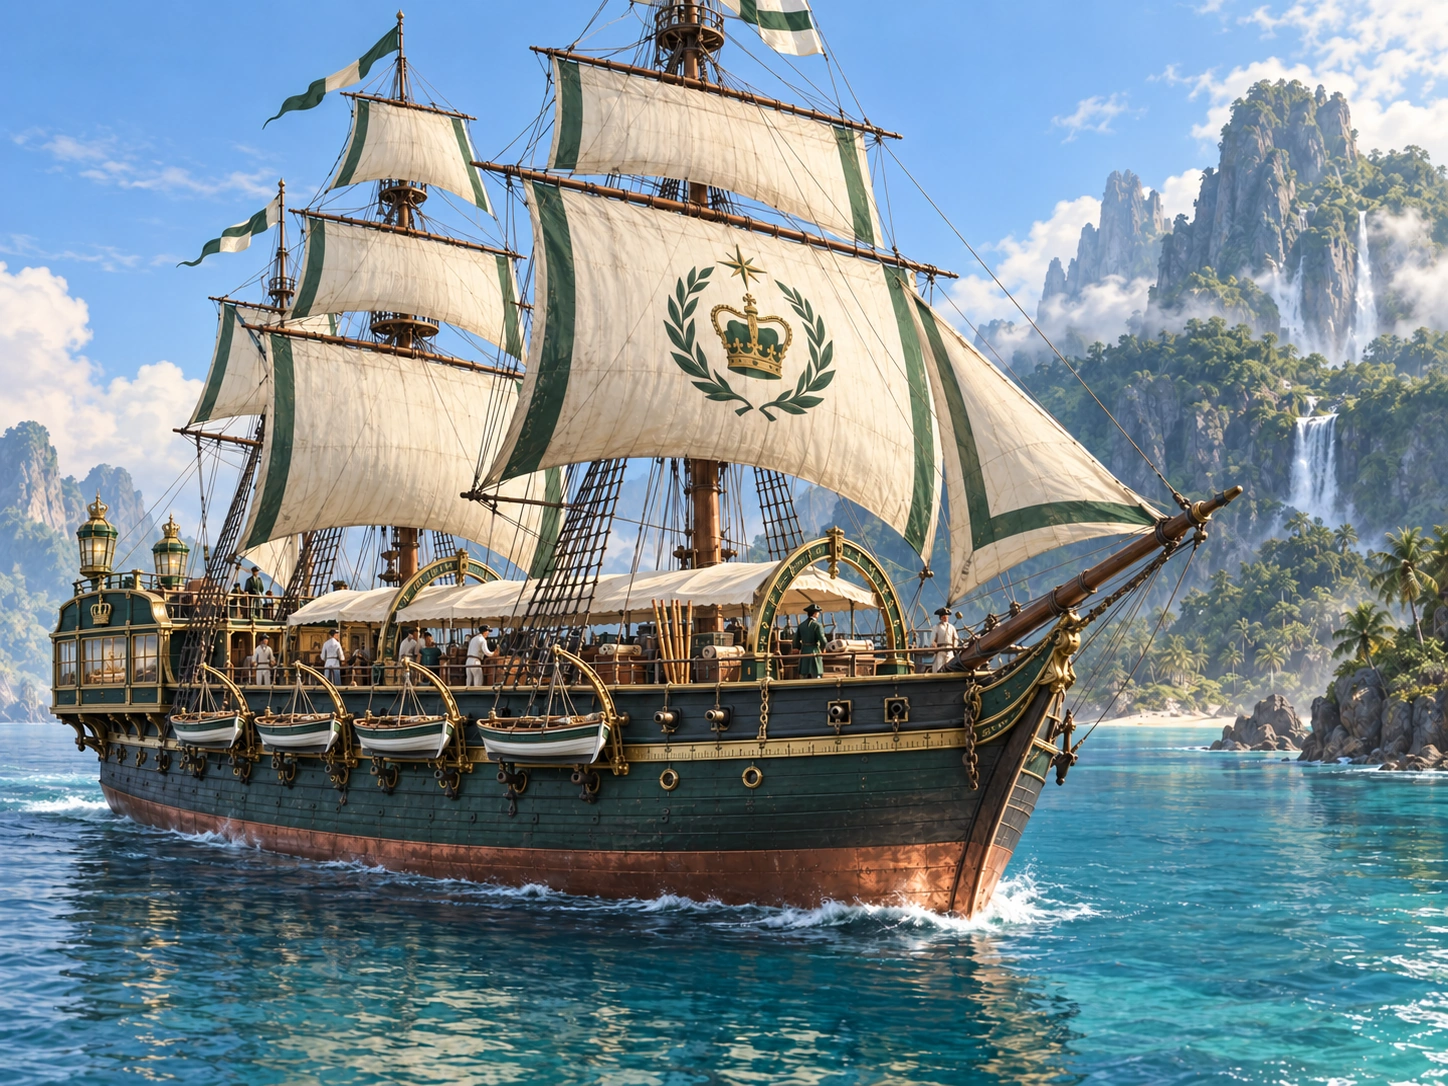
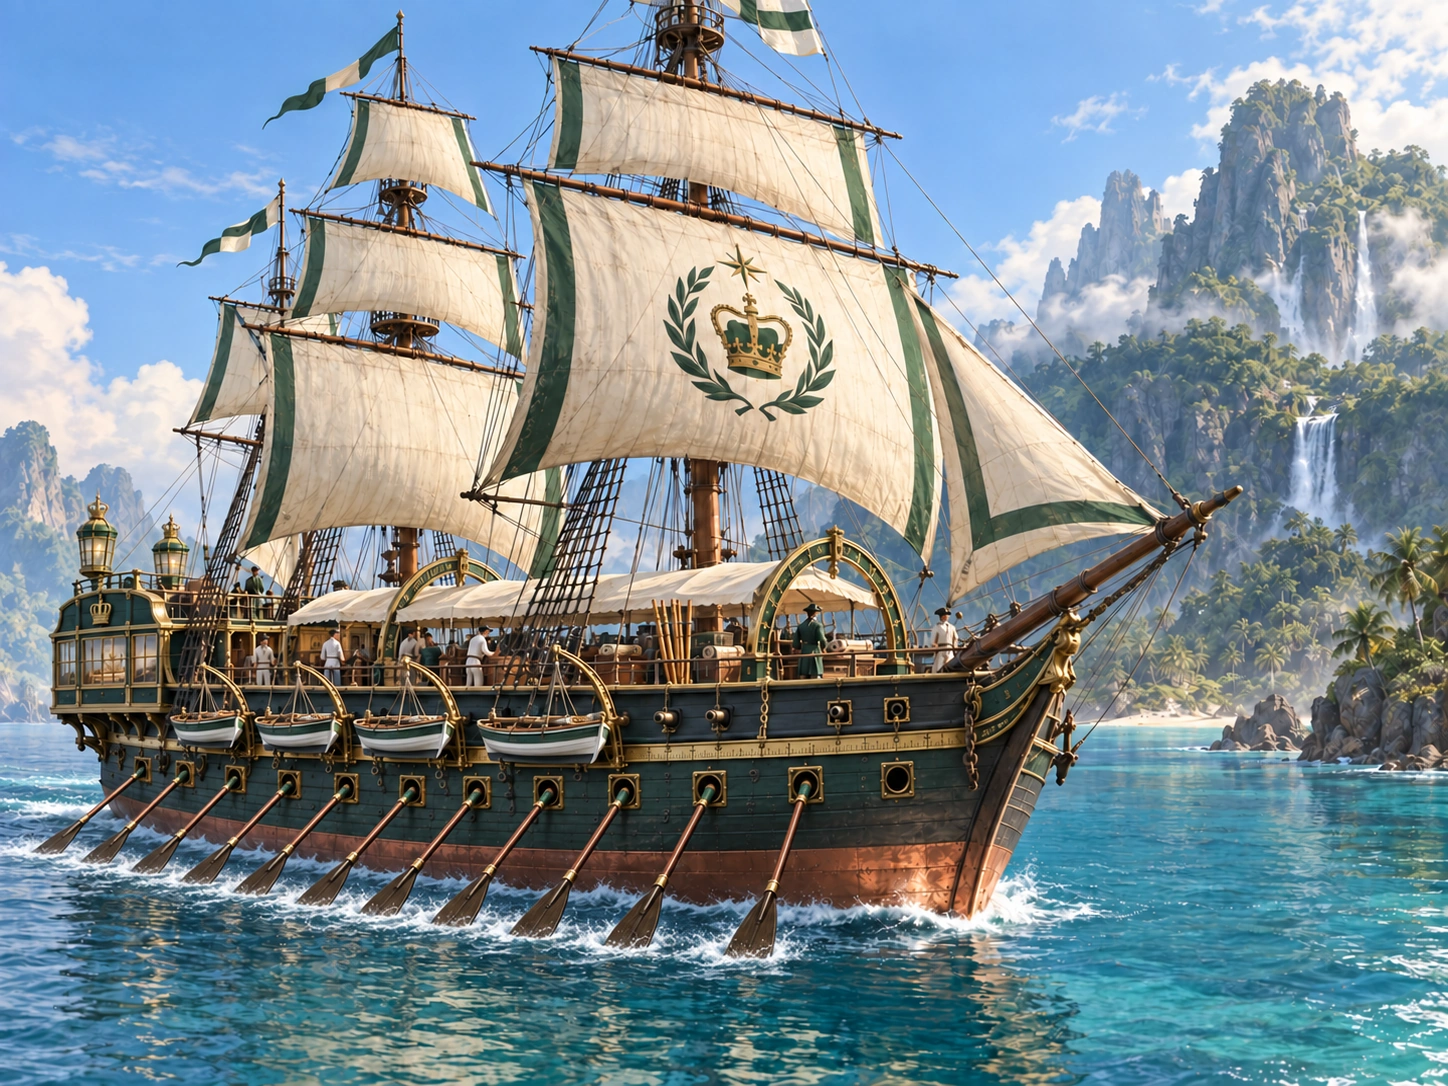
Wayfinder v3: the same ship with her sweeps out
A revision of this morning's commission, and everything that matched Part 4
before still does - paired brass survey lanterns, the chart-cabinet stern
gallery, the long covered waist, paired boat cranes, a small battery, ivory sails
with green edge bands and one Crown emblem, calm water off an uncharted island.
What is new is a full bank of sweeps run out along both sides.

The master neither asks for oars nor forbids them, and they earn their place:
sweeps are what a survey ship wants for working into a windless bay to take
soundings, which is the job her entry describes. She now looks like a vessel
that can reach the places the chart does not have yet, which is the point of her.

Recorded in the register and the art doc for the avoidance of doubt, because it
is the one reading that would be wrong: oars are not galley slavery. CANON v4.0
section 4 is explicit that the Crown keeps none, and section 12 rejects the
enslaved-oarsmen history outright. These sweeps are pulled by her own crew.

Both earlier masters are kept - wayfinder.v1 and v2 in art-masters/_retired -
so this is reversible without asking for anything again. Register clean, 174
assets.

737 tests and 1 skipped, tsc and the build clean.

Claude-Session: https://claude.ai/code/session_01J4RqjefmrWhjDQZzLK6vCx

diff --git a/ASSETS.md b/ASSETS.md
@@ -7,7 +7,7 @@ full-resolution original is kept. The shipped file is small and cropped;
 the master in `art-masters/` is the delivery as it came, so any of these
 can be recropped or resized later without asking for the art again.
 
-**174 of 187 painted.** 7202KB shipped, 47.3MB of masters kept back.
+**174 of 187 painted.** 7207KB shipped, 47.3MB of masters kept back.
 
 ## portraits — 480×436
 
@@ -114,7 +114,7 @@ three-quarter view, whole vessel, masts and waterline both in frame. 34 of 42.
 | Urskin Whaler | `urskin-whaler` | 3 (+2 retired) | 78KB | 1448×1086, 625KB | whole frame | 2026-09-16 | Sean, 19 September — production painting |
 | Vanguard | `vanguard` | 2 (+1 retired) | 78KB | 1448×1086, 604KB | whole frame | 2026-09-16 | Sean, 16 September — sliced from the fleet contact sheet |
 | Vanguard II | `vanguard-ii` | 2 (+1 retired) | 80KB | 1448×1086, 642KB | whole frame | 2026-09-16 | Sean, 16 September — sliced from the fleet contact sheet |
-| Wayfinder | `wayfinder` | 2 (+1 retired) | 81KB | 1448×1086, 602KB | whole frame | 2026-09-19 | Sean, 19 September — production painting |
+| Wayfinder | `wayfinder` | 3 (+2 retired) | 86KB | 1448×1086, 597KB | whole frame | 2026-09-19 | Sean, 19 September — production painting |
 
 **Still owed (8):** `alliance-large`, `alliance-medium`, `alliance-small`, `alliance-transport`, `empire-large`, `empire-medium`, `empire-small`, `empire-transport`
 
@@ -438,7 +438,7 @@ top-down chart ground, quiet where the chains sit. 2 of 2.
 - **ships/urskin-whaler** — The Urskin Whaler proper: a bone-framed working whaler with a harpoon over the bow, not the dreadnaught. Replaces the Goliath painting that briefly held this slug on 19 September, and the contact-sheet placeholder before it.
 - **ships/vanguard** — Commission of 20 September 2026, captioned 'vanguard 1' and it is one. Matches Part 4: long low two-decker with a clean sheer line, modest stern, three evenly spaced masts, uncluttered gun deck, standardized oak with flush black-iron reinforcement over mature copper. Rig is the master's exactly - ivory sails with disciplined green accents and a single medium Crown emblem, against the II's green canvas and two. Signature detail present: the gold-painted measuring line running arrow-straight from bow to stern just below the rail. Pairs with the new Vanguard II, same hull and same headland, which is what that family's guardrail asks for. Two small divergences recorded, not corrected: the Crown emblem sits on the fore rather than centered on the mainsail, and she sails alone where the master's scene has her leading a small line of battle. Delivered 1448x1086, 4:3, no crop.
 - **ships/vanguard-ii** — Commission of 20 September 2026, captioned 'vanguard 2' and it is one. Matches Part 4: the Vanguard's long low two-decker silhouette with a finer bow and a taller balanced rig, deep botanical-green sails with antique-gold edging, exactly two Crown emblems, bright maintained copper and brass-and-black-iron detailing, cutting through rougher water at speed. Signature detail present - the narrow gold chevron repeated at bow and stern that marks the second-generation frame. Not the Sovereign II, which is a four-masted three-decker whose own signature is nine recessed assault launches; neither is here. The family guardrail also checks out against the shipped Vanguard I: same three-masted two-decker and the same black-and-gold hull, with the upgrade carried by the rig. Delivered 1448x1086, 4:3, no crop.
-- **ships/wayfinder** — Commission of 20 September 2026. The closest match to Part 4 of any hull so far, and the only one where both halves of the signature detail arrived: the paired brass survey lanterns are on the stern quarter and the stern gallery is glazed like a chart cabinet. Everything else is the master's too - broad high-sided three-masted packet, long covered waist under an awning, square stern, paired boat cranes with launches swung in them, a relatively small battery, refined oak over bright copper, warm-ivory square sails with narrow botanical-green edge bands and one clear Crown emblem on the main, approaching an uncharted island over calm turquoise water in clear light with no battle anywhere. Guardrail holds: neither a war galleon nor a merchant tub, but organized exploration with troops aboard. Delivered 1448x1086, 4:3, no crop.
+- **ships/wayfinder** — Revision of the 20 September commission, same day: the earlier painting with a full bank of sweeps run out along both sides. Everything that matched Part 4 before still does - paired brass survey lanterns, chart-cabinet stern gallery, long covered waist, paired boat cranes, small battery, ivory sails with green edge bands and one Crown emblem, calm water off an uncharted island. The oars are an addition rather than a conflict: the master does not mention them and does not forbid them, and sweeps are exactly what a survey ship wants for working into a windless bay to take soundings, which is the job her entry describes. Recorded for the avoidance of doubt: oars are not galley slavery, and CANON v4.0 section 4 is explicit that the Crown keeps none - the oarsmen here are her own crew.
 
 ## Changing one
 

diff --git a/docs/ship-art-direction.md b/docs/ship-art-direction.md
@@ -41,9 +41,13 @@ this page is generated from it.
 
 *Medium, Normal. CWN-WAY-S01, research S01.*
 
-**PAINTED** — `src/art/ships/wayfinder.webp`. Both halves of the signature
-detail arrived: the paired brass survey lanterns, and a stern gallery glazed
-like a chart cabinet.
+**PAINTED** — `src/art/ships/wayfinder.webp` (v3). Both halves of the
+signature detail arrived: the paired brass survey lanterns, and a stern
+gallery glazed like a chart cabinet. The v3 revision adds a full bank of
+sweeps, which the master neither asks for nor forbids and which suits a ship
+whose job is working into windless bays to take soundings. Oars are not
+galley slavery: `CANON.md` §4 is explicit that the Crown keeps no slaves, so
+any Crown sweeps are pulled by her own crew.
 
 **Encyclopedia** *(shown in game)* — Wayfinders carry the people who make an Imperial claim real: chartmakers, engineers, clerks, marines and the brass-bound survey chests from which new harbors are measured. They are not glamorous ships, but an island that sees one at anchor knows that roads, tariffs and seawalls will follow. Their captains are chosen for patience rather than daring, and a Wayfinder's broad decks often become the first orderly ground in an unfamiliar Reach.
 
